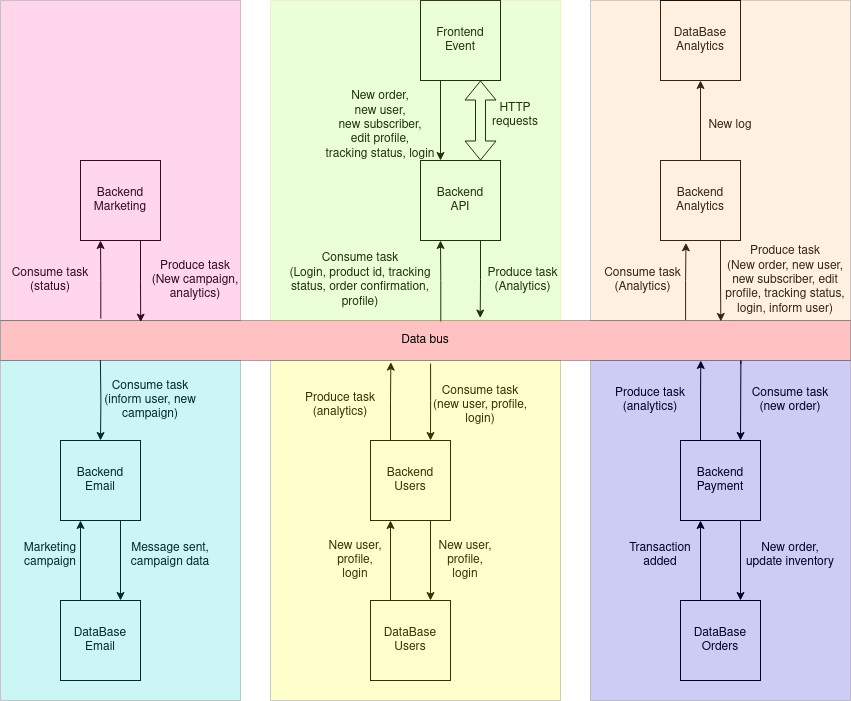
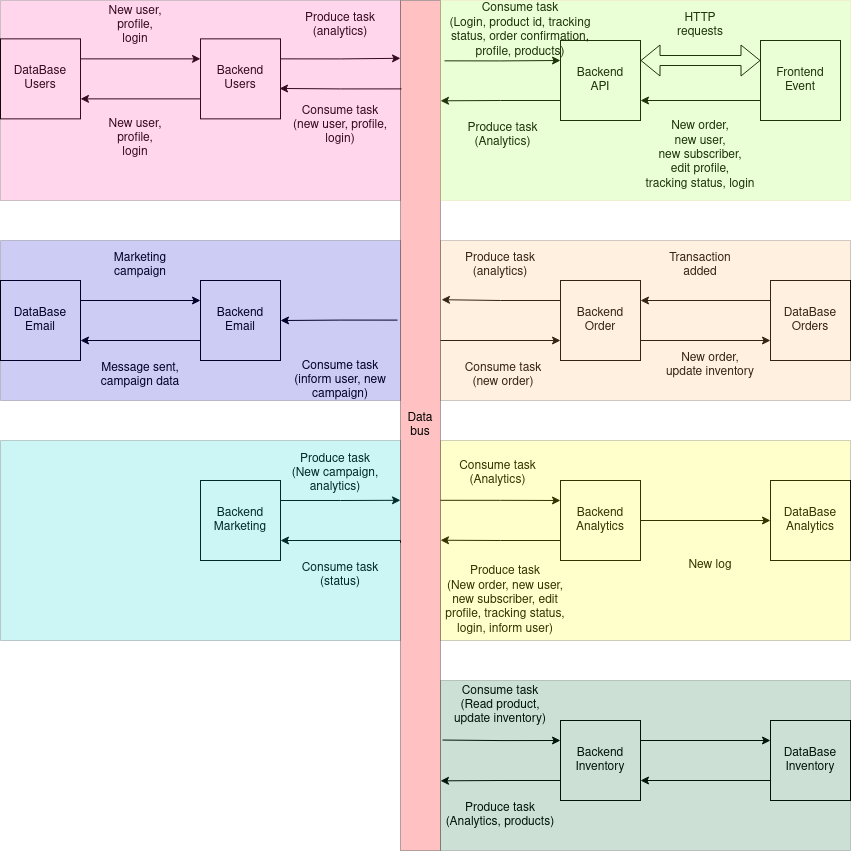
overview

diff --git a/README.md b/README.md
@@ -3,6 +3,7 @@
 ## Life cycle
 + [Analysis and specification requirements](#Analysis)
 + [Design](#Design)
+    - [Architecture](#Architecture)
     - [Flowchart](#Flowchart)
     - [Wireframe](#Wireframe)
 + [Coding](#Coding)
@@ -68,16 +69,33 @@ Specification requirements of the client. The client has a business idea and wan
 The design concept for our ecommerce store is centered around a modern and minimalistic style with a focus on usability and ease of navigation.
 Come up with a plan or algorithm to successfully and efficiently execute the client needs based on the analysis requirements
 
-* User lands on the landing-page
-* Clicks on a product that appeals
-* Selects the correct size and color
-* Adds to cart
-* Clicks on checkout
-* Inserts billing information
-* Pays
-* Receives a tracking number via email
-* Checks the status of the tracking number
-* Receives the package
+### Architecture
+The Ecommerce Web App follows a modern, microservices-based architecture that provides a flexible and scalable platform for online shopping. The app is built using the following technologies:
+
+* FastAPI: A modern, fast, web framework for building APIs with Python. FastAPI provides high performance, automatic validation, and easy-to-use asynchronous support.
+* Kafka: A distributed streaming platform that enables real-time communication between services. Kafka provides scalable and fault-tolerant messaging, making it ideal for building microservices architectures.
+* PostgreSQL: A powerful and reliable relational database management system. PostgreSQL provides a flexible data model, transaction support, and advanced features such as JSON storage and full-text search.
+
+The app consists of the following microservices:
+
+* Inventory Service: Manages and tracks the inventory levels of each product. Provides operations for updating inventory levels and interacts with the Order Service.
+* Order Service: Manages payments of the order placement and fulfillment process. Provides operations for placing orders, tracking order and status.
+* User Service: Manages user authentication and authorization. Provides operations for registering, logging in, and managing user accounts.
+* Marketing Service: Manages marketing campaigns and product discounts. Provides mechanisms for users to benefit from the different companys strategies.
+* Email Service: Manages email sent to a subscribers list. Provides a list of subscribed user to send emails to and keeps track of the sent emails.
+* Analytics Service: Keeps track of all actions in the platform. Provides statistics based on user interactions, consumer behaviour and measures marketing campaigns effectiveness.
+
+Each microservice is built as a separate Python package and runs in its own Docker container. Communication between services is handled through Kafka topics, allowing for scalable and fault-tolerant messaging. The app also includes a gateway service, built with FastAPI, that provides a unified API for clients to interact with the microservices.
+
+Overall, the microservices architecture provides a scalable and flexible platform for building an ecommerce web app, allowing for easy scaling and maintenance of individual components.
+
+
+### Features:
+* User registration and authentication
+* Product catalog with search and filter functionality
+* Shopping cart and checkout process
+* Payment processing and order tracking
+* User dashboard with order history and account settings
 
 
 ### Wireframe
@@ -102,7 +120,19 @@ Below are some screenshots of our ecommerce store
 ![alt text](https://github.com/RomanW05/ecommerce/blob/main/blob/wireframe/wireframe-14.png?raw=true)
 ![alt text](https://github.com/RomanW05/ecommerce/blob/main/blob/wireframe/wireframe-15.png?raw=true)
 
+
 ### Flowchart
+* User lands on the landing-page
+* Clicks on a product that appeals
+* Selects the correct size and color
+* Adds to cart
+* Clicks on checkout
+* Inserts billing information
+* Pays
+* Receives a tracking number via email
+* Checks the status of the tracking number
+* Receives the package
+
 
 #### Overview
 ![alt text](https://github.com/RomanW05/ecommerce/blob/main/blob/Overview.png?raw=true)
@@ -119,8 +149,8 @@ Below are some screenshots of our ecommerce store
 ### Live demo
 You can view a live demo of our ecommerce store at [TBD](TBD).
 
-### Design tools
-We used Figma for our design work. You can view our design files on [Figma](https://www.figma.com/community/file/966016571279781800). Credit to @waverlylab for the creation of such wireframe 
 
-### Technologies
-We need a database like postgres, a data bus like kafka, an API like FastAPI
+### Design tools
+We used Figma for our design work. You can view our design files on [Figma](https://www.figma.com/community/file/966016571279781800)
+
+
